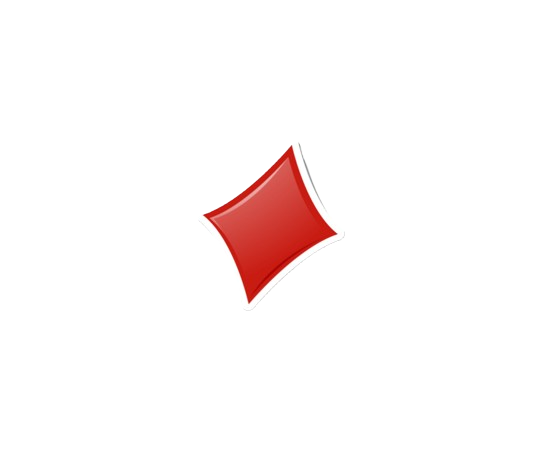
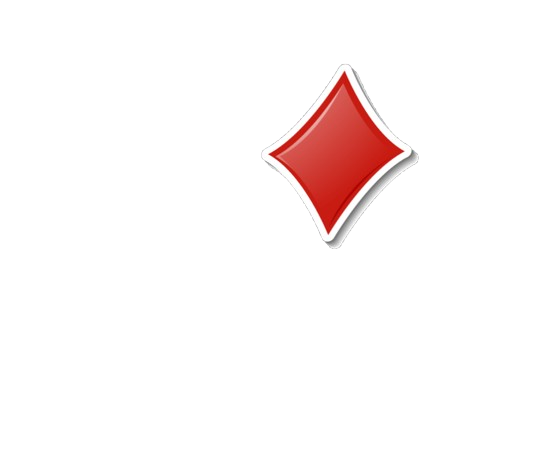
Placed Suit Designs on Home Page

Changed region(s): [[0.3736, 0.1532, 0.7784, 0.674]]

diff --git a/src/components/sections/HomePage.tsx b/src/components/sections/HomePage.tsx
@@ -33,6 +33,8 @@ export default function HomePage() {
 
         {/* Right side - contains image and card suits */}
         <div className="w-[50%] relative">
+          {/* Card suits */}
+
           {/* Title and Image Container */}
           <div className="absolute right-[10%] top-[20%] text-right pr-8 flex flex-col items-end">
             {/* Image and card suits container */}
@@ -53,6 +55,26 @@ export default function HomePage() {
                 animate={{ opacity: 1 }}
                 transition={{ duration: 0.5, delay: 0.4 }}
               >
+                {/* Background Spade */}
+                <div className="absolute -left-20 top-32 z-5 scale-[1.8]">
+                  <Image src={spadeImage} alt="Spade" width={600} height={600} className="opacity-100" />
+                </div>
+
+                {/* Background Diamond */}
+                <div className="absolute left-[-5vw] top-32 z-5 scale-[2]">
+                  <Image src={diamondImage} alt="Diamond" width={600} height={600} className="opacity-100" />
+                </div>
+
+                {/* Background Club */}
+                <div className="absolute left-[-5vw] top-32 z-5 scale-[1.8]">
+                  <Image src={clubImage} alt="Club" width={600} height={600} className="opacity-100" />
+                </div>
+
+                {/* Background Heart */}
+                <div className="absolute left-[-5vw] top-32 z-5 scale-[1.9]">
+                  <Image src={heartImage} alt="Heart" width={600} height={600} className="opacity-100" />
+                </div>
+
                 {/* Main image */}
                 <Image
                   src={personImage}
@@ -62,44 +84,6 @@ export default function HomePage() {
                   className="relative z-20 -translate-x-16 -translate-y-3"
                   priority
                 />
-
-                {/* Card suits */}
-                <motion.div
-                  className="absolute -right-8 -top-8"
-                  initial={{ scale: 0.8 }}
-                  animate={{ scale: 1 }}
-                  transition={{ duration: 0.5, delay: 0.6 }}
-                >
-                  <Image src={heartImage} alt="Heart" width={60} height={60} />
-                </motion.div>
-
-                <motion.div
-                  className="absolute right-16 -top-4"
-                  initial={{ scale: 0.8 }}
-                  animate={{ scale: 1 }}
-                  transition={{ duration: 0.5, delay: 0.7 }}
-                >
-                  <Image src={clubImage} alt="Club" width={60} height={60} />
-                </motion.div>
-
-                <motion.div
-                  className="absolute right-4 bottom-16"
-                  initial={{ scale: 0.8 }}
-                  animate={{ scale: 1 }}
-                  transition={{ duration: 0.5, delay: 0.8 }}
-                >
-                  <Image src={spadeImage} alt="Spade" width={60} height={60} />
-                </motion.div>
-
-                <motion.div
-                  className="absolute -right-4 bottom-32"
-                  initial={{ scale: 0.8 }}
-                  animate={{ scale: 1 }}
-                  transition={{ duration: 0.5, delay: 0.9 }}
-                >
-                  <Image src={diamondImage} alt="Diamond" width={60} height={60} />
-                </motion.div>
-
                 {/* Bottom text overlapping with image */}
                 <motion.div 
                   className={`absolute -bottom-4 -right-8 z-30 text-[112px] tracking-[25px] text-white leading-none whitespace-nowrap [text-shadow:0_0_10px_#990904,0_0_20px_#990904,0_0_30px_#990904] ${anton.className}`}
